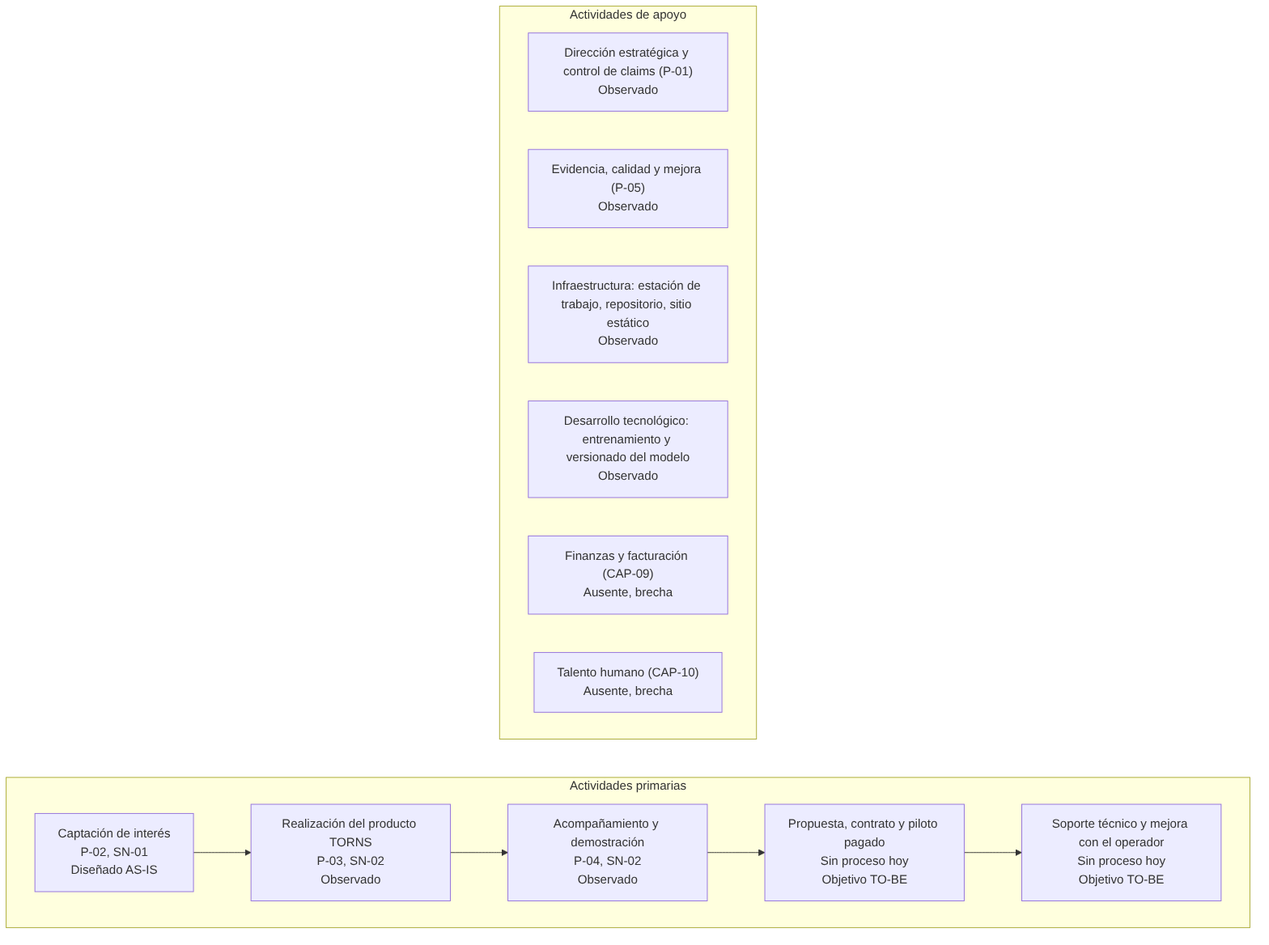
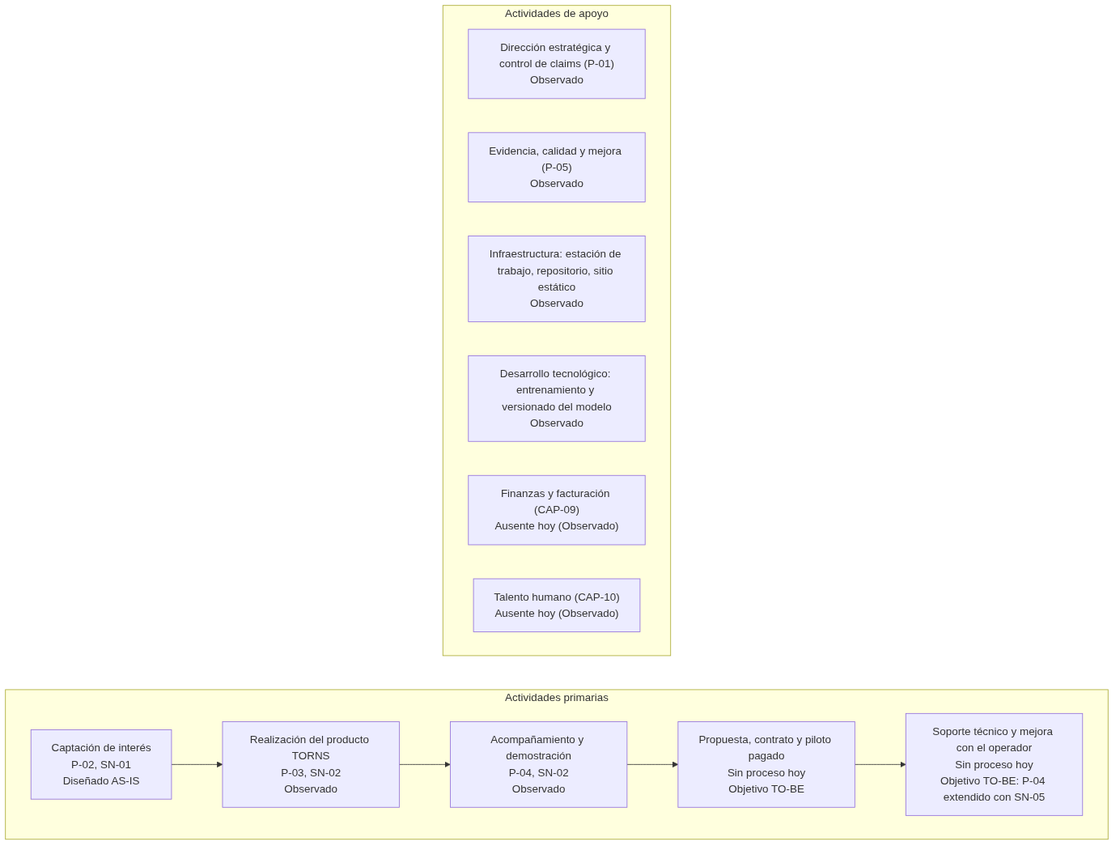
M1 Negocio: aplica hallazgos de la auditoría del PR #3 (AP-03a/AP-03b e IT-07, DF citados, C-xx en brechas, marcas, nombres de entregables, PNG revisados, SVG separados)

diff --git a/docs/ae-final-project/ondas/M1-negocio/complementos/to-be-negocio.md b/docs/ae-final-project/ondas/M1-negocio/complementos/to-be-negocio.md
@@ -1,12 +1,12 @@
 # Arquitectura de Negocio TO-BE de LIRN (borrador de apoyo para el Punto 5)
 
-Versión 0.2, 1 de noviembre de 2026 (cambios frente a 0.1 al final del documento). Borrador de apoyo; Santiago redacta el texto final. Todo lo descrito como estado futuro es Objetivo TO-BE. Los puntos de partida citan su marca AS-IS. No se fijan cifras, costos, fechas de mercado ni clientes: donde el taller pida una meta, queda NO CONFIRMADO hasta que M5 la defina.
+Versión 0.2, 1 de noviembre de 2026 (cambios frente a 0.1 al final del documento). Borrador de apoyo; Santiago redacta el texto final. Todo lo descrito como estado futuro es Objetivo TO-BE. Los puntos de partida citan su marca AS-IS. No se fijan cifras, costos, fechas de mercado ni clientes: donde el taller pida una meta, queda NO CONFIRMADO hasta que el Roadmap de Transformación la defina.
 
-Alcance según el enunciado del taller: capacidades, procesos, servicios, información y recursos tecnológicos del negocio TO-BE. Información y tecnología se describen aquí solo como requisito de negocio; el detalle es de M2 (Datos) y M4 (Tecnología).
+Alcance según el enunciado del taller: capacidades, procesos, servicios, información y recursos tecnológicos del negocio TO-BE. Información y tecnología se describen aquí solo como requisito de negocio; el detalle está en la Arquitectura de Datos (Punto 2) y en la Arquitectura Tecnológica (Punto 4).
 
-Hechos confirmados por Santiago el 1 de noviembre de 2026 (Observado por declaración del dueño): LIRN tiene un autor único, Johel Santiago Arias; los tres nombres de la página de TORNS son de presentación y no corresponden a un equipo. Los nombres técnicos tro-* se mantienen en la descripción AS-IS. Las pruebas de captura se hicieron con dos cámaras USB (usb0 y usb1). Label Studio se considera aplicación; SharePoint y el correo son herramientas de apoyo.
+Hechos confirmados por el dueño (Observado por declaración del dueño (1 de noviembre de 2026)): LIRN tiene un autor único, Johel Santiago Arias; los tres nombres de la página de TORNS son de presentación y no corresponden a un equipo. Los nombres técnicos tro-* se mantienen en la descripción AS-IS. Las pruebas de captura se hicieron con dos cámaras USB (usb0 y usb1). Label Studio se considera aplicación (AP-08 en la Arquitectura de Aplicaciones); SharePoint y el correo son herramientas de apoyo.
 
-Nombres de superficies según la tabla aprobada en B-10: AP-01 Sitio web comercial de LIRN y TORNS, AP-02 Consola de operación de estaciones, AP-03 Servicio de detección de pasajeros y plan de despacho (API), AP-04 Entrenamiento del modelo de detección. El inventario completo de aplicaciones (AP-01 a AP-13, incluidas AP-12 Google Fonts y AP-13 Google Forms) y las diferencias DF-01 a DF-10 están en el entregable de Aplicaciones (Punto 3); el modelo de datos, los flujos y el tratamiento Ley 1581 están en el entregable de Datos (Punto 2).
+Nombres de superficies aprobados por Santiago: AP-01 Sitio web comercial de LIRN y TORNS, AP-02 Consola de operación de estaciones, AP-03 Servicio de detección de pasajeros y plan de despacho, que en el TO-BE se divide en AP-03a (API de despacho) y AP-03b (servicio de inferencia), AP-04 Entrenamiento del modelo de detección. El inventario completo de aplicaciones (AP-01 a AP-13, incluidas AP-12 Google Fonts y AP-13 Google Forms) y las diferencias DF-01 a DF-10 están en el entregable de Aplicaciones (Punto 3); el modelo de datos, los flujos y el tratamiento Ley 1581 están en el entregable de Datos (Punto 2).
 
 ## 1. Visión de negocio TO-BE
 
@@ -34,7 +34,7 @@ Principios que gobiernan el TO-BE: PN-01 a PN-08 del catálogo de principios (bo
 
 ## 3. Procesos TO-BE
 
-Se conservan P-01 a P-05 y se proponen procesos nuevos solo donde una capacidad ausente lo exige (PN-08). Los identificadores P-06 a P-08 son propuesta mía para que Santiago apruebe o descarte.
+Se conservan P-01 a P-05 y se proponen procesos nuevos solo donde una capacidad ausente lo exige (PN-08). Los identificadores P-06 a P-08 son propuestos y quedan pendientes de decisión de Santiago.
 
 | Proceso | Tipo | Cambio TO-BE (Objetivo TO-BE) | Capacidades |
 |---------|------|-------------------------------|-------------|
@@ -47,7 +47,8 @@ Se conservan P-01 a P-05 y se proponen procesos nuevos solo donde una capacidad 
 | P-07 Integración con el centro de control (propuesto, pendiente de decisión de Santiago) | Misional | Acuerdo técnico y operativo de intercambio con el operador; operador humano en el circuito | CAP-07 |
 | P-08 Gestión administrativa y financiera (propuesto, pendiente de decisión de Santiago) | Apoyo | Facturación, contabilidad, contratos y vinculación de personal | CAP-09, CAP-10 |
 
-Cadena de valor TO-BE: las actividades primarias "Propuesta, contrato y piloto pagado" y "Soporte técnico y mejora con el operador", que hoy no tienen proceso, quedan cubiertas por P-06 y P-07 (ver diagrama de cadena de valor).
+<!-- reescribir Santiago -->
+Cadena de valor TO-BE: las actividades primarias "Propuesta, contrato y piloto pagado" y "Soporte técnico y mejora con el operador", que hoy no tienen proceso (Observado), quedan cubiertas por P-06 y por P-04 extendido con SN-05, respectivamente (Objetivo TO-BE). P-07 habilita CAP-07.
 
 ## 4. Servicios de negocio TO-BE
 
@@ -59,26 +60,27 @@ Cadena de valor TO-BE: las actividades primarias "Propuesta, contrato y piloto p
 | SN-04 Piloto de medición de demanda en estación (propuesto, pendiente de decisión de Santiago) | No existe (Observado) | Servicio pagado y acotado en tiempo y estaciones, con informe de resultados. Condición previa: evaluación del modelo con video de estación y acuerdo con el operador sobre fuente de video y red |
 | SN-05 Soporte y mejora del servicio (propuesto, pendiente de decisión de Santiago) | No existe (Observado) | Atención de incidencias y ajustes acordados con el operador |
 
-Sin precio, duración ni número de estaciones: NO CONFIRMADO, lo decide M5.
+Sin precio, duración ni número de estaciones: NO CONFIRMADO, lo define el Roadmap de Transformación.
 
+<!-- reescribir Santiago -->
 Nota sobre el desempeño del modelo (Observado): el recall de 0,55 es la métrica de entrenamiento de la última época, medida sobre 1.000 imágenes de validación del COCO Person Dataset de Roboflow, sin imágenes de TransMilenio ni de estaciones; el entrenamiento se realizó el 15 de noviembre de 2025 (Observado por declaración del dueño, 1 de noviembre de 2026). No anticipa el desempeño en plataforma; por eso SN-04 y P-06 exigen la evaluación previa con video de estación.
 
-## 5. Información requerida por el negocio TO-BE (insumo para M2)
+## 5. Información requerida por el negocio TO-BE (insumo para la Arquitectura de Datos)
 
 - Historial de conteos y recomendaciones por estación y fecha (CAP-05, SN-04).
 - Registro de leads con autorización de tratamiento (CAP-02, CAP-03).
 - Contratos, actas y facturación del piloto (AI-07 deja de ser brecha).
 - Evidencia de resultados del piloto con fuente y alcance (CAP-02, P-05).
-El modelo de datos, la clasificación y los flujos son del Arquitecto de Datos.
+El modelo de datos, la clasificación y los flujos se desarrollan en la Arquitectura de Datos.
 
-## 6. Recursos tecnológicos requeridos (insumo para M3 y M4)
+## 6. Recursos tecnológicos requeridos (insumo para la Arquitectura de Aplicaciones y la Arquitectura Tecnológica)
 
-- AP-03 con inferencia desacoplada y persistencia (CAP-04, CAP-05).
-- AP-02 y AP-03 con autenticación y roles de usuario (Objetivo TO-BE; DF-05), requisito para CAP-07.
+- AP-03b (servicio de inferencia continua) publica el evento IT-07 y AP-03a (API de despacho) lo persiste, de modo que el conteo no depende de que haya un cliente conectado (Objetivo TO-BE; CAP-04, CAP-05).
+- AP-02 y AP-03a con autenticación y roles de usuario (Objetivo TO-BE; DF-05 de la Arquitectura de Aplicaciones), requisito para CAP-07.
 - Entorno de piloto separado del laboratorio, con respaldo y gestión de secretos (CAP-08).
 - Gestor de leads en reemplazo de la hoja de la cuenta personal, con registro de autorización de tratamiento (CAP-02, CAP-03).
-- Registro versionado de modelos de detección, necesidad de aplicación enlazada a P-03, P-08 y CAP-10 según lo acordado en DF-08 (Objetivo TO-BE).
-- Facturación, necesidad de aplicación enlazada a P-08 y CAP-09/CAP-10 según DF-08 (Objetivo TO-BE).
+- Registro versionado de modelos de detección, necesidad de aplicación enlazada a P-03 y a CAP-04 y CAP-08 (Objetivo TO-BE; DF-08 de la Arquitectura de Aplicaciones).
+- Facturación, necesidad de aplicación enlazada a P-08 y CAP-09 (Objetivo TO-BE; DF-08 de la Arquitectura de Aplicaciones).
 La selección y el diseño son de Aplicaciones y Tecnología; aquí solo se declara la necesidad de negocio.
 
 ## 7. Organización TO-BE
@@ -86,29 +88,27 @@ La selección y el diseño son de Aplicaciones y Tecnología; aquí solo se decl
 <!-- reescribir Santiago -->
 Punto de partida: una persona, Johel Arias, autor único, cubre las cinco áreas funcionales (Diseñado AS-IS). Estado objetivo: las áreas existen como roles; un cargo nuevo solo se justifica por una capacidad ausente (CAP-07, CAP-09, CAP-10). No se fija número de personas ni fecha: NO CONFIRMADO.
 
-## 8. Brechas de negocio AS-IS a TO-BE (insumo para el Gap Analysis de M5)
+## 8. Brechas de negocio AS-IS a TO-BE (insumo para el Gap Analysis del Roadmap de Transformación)
 
 | ID | Tipo | Lo que falta hoy (Observado) | Estado que la cierra (Objetivo TO-BE) | Candidato |
 |----|------|------------------------------|---------------------------------------|-----------|
-| G-N01 | Brecha | Sin NIT ni matrícula (Observado) | S.A.S. formalizada | Formalización legal ante Cámara de Comercio y DIAN |
-| G-N02 | Brecha | Banda pública desalineada (Observado) | Comunicación alineada con el equipo vigente | Alineación de la banda pública |
-| G-N03 | Brecha | Leads en hoja de la cuenta Google personal de Santiago, sin respuesta y sin política publicada; riesgo Ley 1581/2012 (Observado) | Embudo con gestor y política Ley 1581 | Política Ley 1581 y gestor de leads |
-| G-N04 | Brecha | Conteos solo en memoria (Observado) | Historial comparable por estación | Persistencia histórica |
-| G-N05 | Brecha | Modelo evaluado solo en validación de entrenamiento sobre imágenes genéricas, recall 0,55 (Observado) | Evaluación en estación | Desacople y evaluación en estación |
-| G-N06 | Brecha | CAP-07, CAP-09 y CAP-10 ausentes (Observado) | Capacidades con proceso (P-07, P-08) | Capacidades ausentes |
-| G-N07 | Brecha | Sin proceso de contratación ni piloto (Observado). Riesgo de continuidad: no hay copias de respaldo y todo se despliega solo en el equipo de Santiago (Observado por declaración del dueño, 1 de noviembre de 2026; detalle en el entregable de Tecnología, M4) | P-06 y SN-04, con respaldo y entorno de piloto separado | Primer piloto pagado; respaldo y separación de entornos |
-
-Los candidatos se citan por nombre; sus identificadores C-01 a C-08 los asigna el Líder de Transformación en M5, por posición en el registro.
+| G-N01 | Brecha | Sin NIT ni matrícula (Observado) | S.A.S. formalizada | C-01: Formalización legal ante Cámara de Comercio y DIAN |
+| G-N02 | Brecha | Banda pública desalineada (Observado) | Comunicación alineada con el equipo vigente | C-02: Alineación de la banda pública |
+| G-N03 | Brecha | Leads en hoja de la cuenta Google personal de Santiago, sin respuesta y sin política publicada; riesgo Ley 1581/2012 (Observado) | Embudo con gestor y política Ley 1581 | C-03: Política Ley 1581 y gestor de leads |
+| G-N04 | Brecha | Conteos solo en memoria (Observado) | Historial comparable por estación | C-04: Persistencia histórica |
+| G-N05 | Brecha | Modelo evaluado solo en validación de entrenamiento sobre imágenes genéricas, recall 0,55 (Observado) | Evaluación en estación | C-05: Desacople y evaluación en estación |
+| G-N06 | Brecha | CAP-07, CAP-09 y CAP-10 ausentes (Observado) | Capacidades con proceso (P-07, P-08) | C-06: Capacidades ausentes |
+| G-N07 | Brecha | Sin proceso de contratación ni piloto (Observado). Riesgo de continuidad: no hay copias de respaldo y todo se despliega solo en el equipo de Santiago (Observado por declaración del dueño, 1 de noviembre de 2026; detalle en la Arquitectura Tecnológica) | P-06 y SN-04, con respaldo y entorno de piloto separado | C-08 y C-07: Primer piloto pagado; respaldo y separación de entornos |
 
 ## Pendientes para Santiago
-1. Aprobar o descartar P-06, P-07, P-08, SN-04 y SN-05 (propuestas mías).
+1. Aprobar o descartar P-06, P-07, P-08, SN-04 y SN-05 (propuestos).
 2. Confirmar que el piloto pagado es el único hito comercial del horizonte TO-BE.
-3. Metas, plazos y costos: NO CONFIRMADO, se definen en M5.
+3. Metas, plazos y costos: NO CONFIRMADO, se definen en el Roadmap de Transformación.
 
 ## Cambios de la versión 0.2
-- G-N07: riesgo de continuidad por ausencia de respaldo y despliegue en un solo equipo, enlazado a M4.
+- G-N07: riesgo de continuidad por ausencia de respaldo y despliegue en un solo equipo, enlazado a la Arquitectura Tecnológica.
 - SN-04 y P-06: condición de piloto y nota sobre el recall de 0,55.
 - CAP-03, SN-01 y G-N03: leads recopilados sin respuesta en cuenta personal; riesgo Ley 1581/2012; seguimiento con autorización como objetivo.
-- Sección 6: autenticación con roles en AP-02 y AP-03 (DF-05); registro versionado de modelos y facturación (DF-08).
+- Sección 6: autenticación con roles en AP-02 y AP-03a (DF-05); AP-03a y AP-03b con IT-07; registro versionado de modelos y facturación (DF-08).
 - P-06 a P-08, SN-04 y SN-05 marcados como propuestos pendientes de decisión de Santiago.
 - Hechos confirmados: autor único, nombres tro-* en AS-IS, cámaras usb0 y usb1, clasificación de Label Studio, SharePoint y correo.

diff --git a/docs/ae-final-project/ondas/M1-negocio/complementos/catalogo-principios.md b/docs/ae-final-project/ondas/M1-negocio/complementos/catalogo-principios.md
@@ -2,12 +2,14 @@
 
 Formato TOGAF: nombre, enunciado, justificación, implicaciones. Cada principio se ancla a un hecho existente en la fuente de verdad. Los enunciados son propuestas de diseño (Objetivo TO-BE como guía de decisión); los hechos citados como ancla llevan su marca. Santiago decide cuáles adopta y los redacta con voz propia.
 
+<!-- reescribir Santiago -->
+<!-- reescribir Santiago: enunciados PN-01 a PN-08 -->
 | ID | Nombre | Enunciado | Justificación (ancla) | Implicaciones | Marca del ancla |
 |----|--------|-----------|------------------------|---------------|-----------------|
 | PN-01 | Una firma, un producto | LIRN vende y TORNS opera. No se agrega un segundo producto sin revisión de dirección. | LIRN es la firma y TORNS es el único producto; el proceso P-01 devuelve al alcance si se propone un segundo producto. | Toda iniciativa del portafolio se evalúa contra el alcance de TORNS. Ninguna capacidad nueva se justifica por un producto distinto. | Observado |
 | PN-02 | Afirmar solo lo que está evidenciado | Ningún mensaje público ni entregable afirma clientes, contratos, alianzas, piloto firmado ni impacto no medido. | Lista de claims prohibidos; servicio SN-03; indicador de claims inventados en P-05. | Todo indicador futuro se presenta como Objetivo TO-BE. Las metas sin dato se escriben NO CONFIRMADO. | Observado |
 | PN-03 | Demanda medida antes que demanda supuesta | La oferta recomendada parte de lo que ocurre en la estación ahora y no solo del horario. | Misión y visión aprobadas; mecanismo de conteo y recomendación. | Las capacidades CAP-04 y CAP-05 son el núcleo. Un cambio que degrade la medición exige evaluarla antes. | Observado |
-| PN-04 | La decisión de despacho es del operador | TORNS recomienda; la decisión y la operación siguen en el centro de control. | El producto recomienda oferta al centro de control y no se integra hoy con control real. La formulación como principio es propuesta mía. | Cualquier integración en vivo (CAP-07) se diseña con operador humano en el circuito y autenticación. | Observado (hecho) / propuesta (principio) |
+| PN-04 | La decisión de despacho es del operador | TORNS recomienda; la decisión y la operación siguen en el centro de control. | El producto recomienda oferta al centro de control y no se integra hoy con control real. | Cualquier integración en vivo (CAP-07) se diseña con operador humano en el circuito y autenticación. | Objetivo TO-BE |
 | PN-05 | Privacidad desde el diseño | Se recolecta el mínimo de datos personales y se trata bajo la Ley 1581. | El modelo detecta la clase persona sin reconocimiento facial ni biometría; los leads son datos personales con LIRN como responsable. | Política y aviso de tratamiento en el canal de contacto; clasificación de activos; retención definida. | Observado / Diseñado AS-IS |
 | PN-06 | Evidencia trazable | Toda cifra citada tiene fuente, fecha y alcance declarados. | Encuesta del 17 de agosto de 2026 con n=20 y entrevista SITP por rol; no es resultado de un operador. | Las citas llevan leyenda de investigación del equipo. No se extrapola una muestra de 20. | Observado |
 | PN-07 | Regla explicable sobre caja negra | Donde una regla simple resuelve la decisión, se usa la regla y se declara como regla. | El despacho aplica ⌈N/C⌉ con capacidades 5, 10 y 15 y se documenta como regla, no como IA. | Cambiar a un optimizador requiere justificación y evaluación; no se afirma optimización de red. | Observado |
@@ -15,5 +17,5 @@ Formato TOGAF: nombre, enunciado, justificación, implicaciones. Cada principio 
 
 ## Pendientes para Santiago
 1. Confirmar cuáles de los ocho principios adopta y si desea añadir uno de cumplimiento regulatorio general.
-2. PN-04 y PN-08 son propuestas mías; el repositorio no las enuncia como principios.
-3. El taller no exige un catálogo de principios por nombre; es insumo de M5. NO CONFIRMADO si el docente lo pide en el informe.
+2. PN-04 y PN-08 son principios propuestos; el repositorio no las enuncia como principios.
+3. El taller no exige un catálogo de principios por nombre; es insumo del Roadmap de Transformación. NO CONFIRMADO si el docente lo pide en el informe.

diff --git a/docs/ae-final-project/ondas/M1-negocio/complementos/cadena-de-valor.md b/docs/ae-final-project/ondas/M1-negocio/complementos/cadena-de-valor.md
@@ -1,6 +1,6 @@
 # Cadena de valor de LIRN (borrador de apoyo, AS-IS con proyección TO-BE)
 
-Actividades primarias tomadas de los tres procesos misionales (P-02, P-03, P-04) y de apoyo de P-01, P-05 y de la infraestructura observada. Lo que no existe hoy se marca como brecha.
+Actividades primarias tomadas de los tres procesos misionales (P-02, P-03, P-04) y de apoyo de P-01, P-05 y de la infraestructura observada. Lo que no existe hoy se marca Observado y se describe su ausencia.
 
 ```mermaid
 flowchart TB
@@ -10,8 +10,8 @@ flowchart TB
         A2["Evidencia, calidad y mejora (P-05)<br/>Observado"]
         A3["Infraestructura: estación de trabajo, repositorio, sitio estático<br/>Observado"]
         A4["Desarrollo tecnológico: entrenamiento y versionado del modelo<br/>Observado"]
-        A5["Finanzas y facturación (CAP-09)<br/>Ausente, brecha"]
-        A6["Talento humano (CAP-10)<br/>Ausente, brecha"]
+        A5["Finanzas y facturación (CAP-09)<br/>Ausente hoy (Observado)"]
+        A6["Talento humano (CAP-10)<br/>Ausente hoy (Observado)"]
     end
     subgraph PRIM["Actividades primarias"]
         direction LR
@@ -19,7 +19,7 @@ flowchart TB
         B2["Realización del producto TORNS<br/>P-03, SN-02<br/>Observado"]
         B3["Acompañamiento y demostración<br/>P-04, SN-02<br/>Observado"]
         B4["Propuesta, contrato y piloto pagado<br/>Sin proceso hoy<br/>Objetivo TO-BE"]
-        B5["Soporte técnico y mejora con el operador<br/>Sin proceso hoy<br/>Objetivo TO-BE"]
+        B5["Soporte técnico y mejora con el operador<br/>Sin proceso hoy<br/>Objetivo TO-BE: P-04 extendido con SN-05"]
         B1 --> B2 --> B3 --> B4 --> B5
     end
     APOYO ~~~ PRIM
@@ -28,11 +28,12 @@ flowchart TB
 Disposición: dos bloques apilados, apoyo arriba y primarias abajo. El resultado final (valor entregado, Objetivo TO-BE) se describe en la lectura, no como nodo, para reducir el ancho de la imagen.
 
 ## Lectura
+<!-- reescribir Santiago -->
 - Resultado declarado: oferta ajustada a la demanda medida en estación (Objetivo TO-BE, no entregado hoy).
 - B1 a B3 existen como proceso documentado (Observado o Diseñado AS-IS). B4 y B5 no existen: LIRN no tiene clientes ni pilotos (Observado) y se proyectan solo como TO-BE.
 - El valor que se declara como resultado final es objetivo. No se afirma como entregado hoy.
-- A5 y A6 son brechas confirmadas por el mapa de capacidades.
+- A5 y A6 no existen hoy, según el mapa de capacidades (Observado).
 - No hay cifras ni costos por actividad. Si el docente exige análisis de margen, queda NO CONFIRMADO.
 
 ## Pendiente para Santiago
-Decidir si presentar la cadena como modelo de Porter (actividades primarias y de apoyo, como arriba) o como cadena de valor de los servicios SN-01 a SN-03. Propongo la primera porque el mapa de procesos ya tiene tipo estratégico, misional y de apoyo.
+Decidir si presentar la cadena como modelo de Porter (actividades primarias y de apoyo, como arriba) o como cadena de valor de los servicios SN-01 a SN-03. Se recomienda la primera porque el mapa de procesos ya tiene tipo estratégico, misional y de apoyo.

diff --git a/docs/ae-final-project/ondas/M1-negocio/complementos/hechos-decisiones-punto1.md b/docs/ae-final-project/ondas/M1-negocio/complementos/hechos-decisiones-punto1.md
@@ -7,7 +7,7 @@ Para que Santiago reescriba con voz propia. No copiar frases de aquí al informe
 |-----|-------|-------|--------|
 | H-01 | LIRN es la firma y TORNS es el único producto | Observado | Registro de empresa; archivo de identidad del repositorio |
 | H-02 | Razón social de trabajo LIRN, proyectada LIRN S.A.S., domicilio Bogotá | Diseñado AS-IS | Registro de empresa, apartado de identidad legal |
-| H-03 | NIT y matrícula mercantil sin formalizar | Brecha (NO CONFIRMADO número) | Registro de empresa |
+| H-03 | Brecha: no existen NIT ni matrícula mercantil | Observado | Registro de empresa |
 | H-04 | Equipo actual: Johel Arias | Observado | Registro de empresa |
 | H-05 | Vista funcional de cinco áreas, todas a cargo del fundador | Diseñado AS-IS | Organigrama y stakeholders |
 | H-06 | Cero clientes firmados; Transmilenio es caso de estudio | Observado | Registro de empresa |
@@ -15,7 +15,7 @@ Para que Santiago reescriba con voz propia. No copiar frases de aquí al informe
 | H-08 | Misión y visión aprobadas | Observado | Organización y estrategia |
 | H-09 | Cinco objetivos estratégicos OE-01 a OE-05 | Diseñado AS-IS | Organización y estrategia |
 | H-10 | Ocho grupos de partes interesadas SH-01 a SH-08 | Observado / Diseñado AS-IS | Organigrama y stakeholders |
-| H-11 | Siete activos de información AI-01 a AI-07; AI-07 no existe | Observado / brecha | Activos, procesos y capacidades |
+| H-11 | Siete activos de información AI-01 a AI-07; AI-07 (contratos y facturación) no existe hoy | Observado | Activos, procesos y capacidades |
 | H-12 | Cinco procesos P-01 a P-05, mapa aprobado el 13 de septiembre de 2026 | Observado | Activos, procesos y capacidades |
 | H-13 | Diez capacidades CAP-01 a CAP-10; CAP-07, CAP-09 y CAP-10 ausentes | Observado | Activos, procesos y capacidades |
 | H-14 | Tres servicios SN-01 a SN-03 | Observado / Diseñado AS-IS | Arquitectura de negocio AS-IS |
@@ -26,7 +26,7 @@ Para que Santiago reescriba con voz propia. No copiar frases de aquí al informe
 | N.º | Decisión | Por qué importa | Referencia |
 |-----|----------|-----------------|------------|
 | D-01 | Qué hacer con la banda de tres nombres de la landing | Define el texto AS-IS y el candidato C-02 | Ajuste B-02 |
-| D-02 | Nombres funcionales de las cuatro superficies | Afecta M2, M3, M4 y M5 | Ajuste B-10 |
+| D-02 | Nombres funcionales de las cuatro superficies | Afecta la Arquitectura de Datos, de Aplicaciones, Tecnológica y el Roadmap de Transformación | Aprobado por Santiago |
 | D-03 | Datos de portada: autor, fecha, grupo | Bloquea la portada | Ajuste B-03 |
 | D-04 | Si la expansión del nombre TORNS es oficial | Riesgo de claim | Cotejo B-05, hallazgo 2 |
 | D-05 | Qué imagen BPMN manda cuando difiere de su guía (P-02, P-04, P-05) | Coherencia del Punto 1 | Cotejo B-06 |

diff --git a/docs/ae-final-project/ondas/M1-negocio/complementos/matriz-trazabilidad-oe.md b/docs/ae-final-project/ondas/M1-negocio/complementos/matriz-trazabilidad-oe.md
@@ -1,13 +1,13 @@
-# B-09. Matriz de trazabilidad OE-01 a OE-05 contra procesos, capacidades y servicios
+# Matriz de trazabilidad OE-01 a OE-05 contra procesos, capacidades y servicios
 
-Borrador de apoyo. Fuente: tabla de objetivos estratégicos (objetivo a proceso, Diseñado AS-IS), mapa de capacidades (capacidad a proceso) y catálogo de servicios SN-01 a SN-03 de M1. Las capacidades y servicios por objetivo se derivan pasando por el proceso. Esa derivación es mía y se marca "derivado, confirmar".
+Borrador de apoyo. Fuente: tabla de objetivos estratégicos (objetivo a proceso, Diseñado AS-IS), mapa de capacidades (capacidad a proceso) y catálogo de servicios SN-01 a SN-03 de la Arquitectura de Negocio. Las capacidades y servicios por objetivo se derivan pasando por el proceso. Nota: las columnas de capacidades y servicios se obtienen pasando por el proceso y requieren confirmación de Santiago; no constituyen marca.
 
-| Objetivo | Procesos (fuente M1) | Capacidades presentes (derivado) | Capacidades en brecha (derivado) | Servicios (derivado) | Marca |
+| Objetivo | Procesos (fuente M1) | Capacidades presentes | Capacidades en brecha | Servicios | Marca |
 |----------|----------------------|----------------------------------|----------------------------------|----------------------|-------|
-| OE-01 Producto demostrable y controlado | P-03, P-04 | CAP-04, CAP-05, CAP-06, CAP-08 parcial | CAP-07 | SN-02 | Diseñado AS-IS (objetivo) / derivado |
-| OE-02 Canal comercial honesto B2B y B2G | P-02 | CAP-03 | Sin CRM ni facturación (CAP-09) | SN-01 | Diseñado AS-IS / derivado |
-| OE-03 Proteger datos personales y evidencia | P-01, P-05 | CAP-01, CAP-02 | Política de tratamiento registrada (parte de CAP-02 en TO-BE) | SN-03 | Diseñado AS-IS / derivado |
-| OE-04 Cerrar brecha entre demanda medida y oferta recomendada | P-01, P-03 | CAP-01, CAP-04, CAP-05 | CAP-07 | SN-02 | Diseñado AS-IS / derivado |
+| OE-01 Producto demostrable y controlado | P-03, P-04 | CAP-04, CAP-05, CAP-06, CAP-08 parcial | CAP-07 | SN-02 | Diseñado AS-IS (objetivo) |
+| OE-02 Canal comercial honesto B2B y B2G | P-02 | CAP-03 | Sin CRM ni facturación (CAP-09) | SN-01 | Diseñado AS-IS |
+| OE-03 Proteger datos personales y evidencia | P-01, P-05 | CAP-01, CAP-02 | Política de tratamiento registrada (parte de CAP-02 en TO-BE) | SN-03 | Diseñado AS-IS |
+| OE-04 Cerrar brecha entre demanda medida y oferta recomendada | P-01, P-03 | CAP-01, CAP-04, CAP-05 | CAP-07 | SN-02 | Diseñado AS-IS |
 | OE-05 Preparar primer piloto pagado (TO-BE) | P-01 a P-05 | CAP-01 a CAP-06 | CAP-07, CAP-09, CAP-10, inventario físico de CAP-08 | SN-01, SN-02, SN-03 | Objetivo TO-BE |
 
 ## Hallazgos de trazabilidad

diff --git a/docs/ae-final-project/ondas/M1-negocio/complementos/matriz-capacidad-proceso-servicio.md b/docs/ae-final-project/ondas/M1-negocio/complementos/matriz-capacidad-proceso-servicio.md
@@ -1,6 +1,6 @@
 # Matriz capacidad x proceso x servicio (AS-IS, borrador de apoyo)
 
-Leyenda: P = proceso principal que ejerce la capacidad (fuente: mapa de capacidades de M1, Observado o Diseñado AS-IS). A = apoyo propuesto por mí a partir de las entradas y salidas de las fichas (derivado, confirmar). Vacío = sin relación documentada. "Ausente" = la capacidad no existe hoy (Observado).
+Leyenda: P = proceso principal que ejerce la capacidad (fuente: mapa de capacidades de la Arquitectura de Negocio, Observado o Diseñado AS-IS). A = apoyo propuesto a partir de las entradas y salidas de las fichas (pendiente de confirmación de Santiago). Vacío = sin relación documentada. "Ausente" = la capacidad no existe hoy (Observado).
 
 | Capacidad | Estado AS-IS | P-01 | P-02 | P-03 | P-04 | P-05 | Servicio de negocio | Marca |
 |-----------|--------------|------|------|------|------|------|---------------------|-------|
@@ -11,12 +11,12 @@ Leyenda: P = proceso principal que ejerce la capacidad (fuente: mapa de capacida
 | CAP-05 Cálculo y recomendación determinista de despacho | Presente (prototipo) |  |  | P | A |  | SN-02 | Observado |
 | CAP-06 Atención al cliente / Acompañamiento de demostración | Presente (acotada) |  | A |  | P |  | SN-02 | Observado / Diseñado AS-IS |
 | CAP-07 Integración y despacho en vivo con el centro de control | Ausente |  |  |  |  |  | Ninguno | Observado |
-| CAP-08 Gestión de inventarios (catálogo digital vs. hardware físico) | Parcial |  |  | P |  |  | NO CONFIRMADO | Observado / brecha |
+| CAP-08 Gestión de inventarios (catálogo digital vs. hardware físico) | Parcial |  |  | P |  |  | NO CONFIRMADO | Observado (catálogo digital existente; no existe inventario de hardware físico) |
 | CAP-09 Gestión financiera, contable y facturación | Ausente |  |  |  |  |  | Ninguno | Observado |
 | CAP-10 Gestión de talento humano | Ausente |  |  |  |  |  | Ninguno | Observado |
 
 ## Lectura
-- Las letras P salen de la columna "proceso asociado" del mapa de capacidades de M1. Las letras A son propuesta mía y Santiago debe aprobarlas o borrarlas.
+- Las letras P salen de la columna "proceso asociado" del mapa de capacidades. Las letras A son propuestas y Santiago debe aprobarlas o borrarlas.
 - Tres capacidades ausentes (CAP-07, CAP-09, CAP-10) no tienen proceso ni servicio. Alimentan C-06.
 - Los dueños funcionales de cada proceso (Dirección, Comercial, Producto, Operación, Calidad) hoy son una sola persona, Johel Arias (Diseñado AS-IS). No se afirma como hoy que existan áreas separadas.
 

diff --git a/docs/ae-final-project/ondas/M1-negocio/complementos/00-resumen.md b/docs/ae-final-project/ondas/M1-negocio/complementos/00-resumen.md
@@ -1,19 +1,18 @@
-# Resumen de entrega M1 (Arquitecto de Negocio), 28 de octubre de 2026
+# Resumen de entrega de la Arquitectura de Negocio, versión del 1 de noviembre de 2026
 
-Todos los archivos son borradores de apoyo. Santiago redacta el texto final. No se modificó el repositorio ni se hizo push.
+Todos los archivos son borradores de apoyo. Santiago redacta el texto final.
 
-| Archivo | Cubre | Estado |
-|---------|-------|--------|
-| lista-ajustes-m1.md | B-01, B-02, B-03, B-10 | B-01, B-02 y B-03 cerrados por decisión de Santiago (28 oct); B-10 aprobado, tabla AP-01 a AP-04 vigente |
-| bibliografia.md | B-04 | Cerrado en borrador; falta edición de TOGAF y URL de encuesta |
+| Archivo | Ajuste | Estado |
+|---------|--------|--------|
+| to-be-negocio.md | TO-BE de negocio v0.2 (insumo del Punto 5) | Borrador v0.2, 1 nov 2026 |
+| lista-ajustes-m1.md | B-01 a B-04, B-06, B-08, B-10 | B-06 cerrado (la imagen prevalece); B-08 cerrado en borrador |
+| bibliografia.md | B-04 | Cerrado en borrador; Decreto 1377 de 2013, compilado en el Decreto 1074 de 2015 |
 | b05-cotejo-consolidado.md | B-05 | Cerrado; lectura frase por frase pendiente |
-| b06-cotejo-bpmn-y-diagramas.md y carpeta imagenes/mmd | B-06 | Cotejo hecho; exportación PNG pendiente (bloqueada en mi entorno) |
+| b06-cotejo-bpmn-y-diagramas.md e imagenes (mmd, png, svg) | B-06 | Cerrado; diez PNG revisados |
+| ajustes-guias-bpmn-p02-p04-p05.md | B-06 | Texto de ajuste de las guías; integración pendiente de Santiago |
 | hechos-decisiones-punto1.md | B-07 | Cerrado |
-| ids-candidatos-c01-c08.md | B-08 | Cerrado |
+| ids-candidatos-c01-c08.md | B-08 | Cerrado en borrador |
 | matriz-trazabilidad-oe.md | B-09 | Cerrado |
-| catalogo-principios.md | Brecha M1 | Borrador |
-| cadena-de-valor.md | Brecha M1 | Borrador con diagrama Mermaid |
-| matriz-capacidad-proceso-servicio.md | Brecha M1 | Borrador |
-| to-be-negocio.md | Punto 5 | Borrador v0.1 (1 nov 2026) |
+| catalogo-principios.md, cadena-de-valor.md, matriz-capacidad-proceso-servicio.md | Complementos del Punto 1 | Borrador |
 
-Contradicciones con el registro: ninguna. Tensiones señaladas: nombres tro-* bloqueados frente a retirar residuos (B-02, B-10), expansión de TORNS no confirmada, y "microempresa" frente al criterio de ingresos del Decreto 957.
+Zonas marcadas para reescritura de Santiago: visión TO-BE, organización TO-BE, nota del recall, párrafo de cadena de valor TO-BE, enunciados de principios y lectura de la cadena de valor.

diff --git a/docs/ae-final-project/ondas/M1-negocio/complementos/lista-ajustes-m1.md b/docs/ae-final-project/ondas/M1-negocio/complementos/lista-ajustes-m1.md
@@ -9,7 +9,7 @@ Borrador de apoyo para Santiago. No es texto final del informe. Marcas: Observad
 | B-03 | Portada con autor, fecha y grupo | Cerrado (decisión de Santiago, 28 oct 2026) | Autor único, ya definido en la documentación del proyecto. No se pide más. | Observado |
 | B-04 | Bibliografía con URL | Cerrado en borrador | Ver archivo de bibliografía. Dos URL oficiales de leyes del Senado dieron error de servidor en la verificación; se usó el Gestor Normativo de la Función Pública. | Observado |
 | B-10 | Nombre de las superficies sin identidad TRO | Cerrado (aprobado por Santiago, 28 oct 2026) | Se aplica la tabla vigente de abajo, que reemplaza la propuesta inicial. | Objetivo TO-BE |
-| B-06 | Diagramas Mermaid y cotejo de las cinco imágenes BPMN | Cerrado (decisión de Santiago, 1 nov 2026: la imagen prevalece) | PNG revisados (02-1, 02-2, 03-1, 04-1). Los desajustes de P-02, P-04 y P-05 se resuelven a favor de la imagen; el ajuste de las guías queda redactado y su integración está pendiente del Líder o de Santiago (fuera de la carpeta M1). | Observado |
+| B-06 | Diagramas Mermaid y cotejo de las cinco imágenes BPMN | Cerrado (decisión de Santiago, 1 nov 2026: la imagen prevalece) | Revisados visualmente los diez PNG (02-1, 02-2, 03-1, 03-2, 04-1, cadena de valor, cons-1 a cons-4); cons-5 era copia idéntica de 04-1 y se eliminó; los SVG pasan a imagenes/svg. Los desajustes de P-02, P-04 y P-05 se resuelven a favor de la imagen; el ajuste de las guías queda redactado y su integración está pendiente del Líder o de Santiago (fuera de la carpeta M1). | Observado |
 | B-08 | IDs C-01 a C-08 | Cerrado en borrador | Añadida la aclaración DF-07 sobre el recall de 0,55. | Objetivo TO-BE |
 
 ## B-02. Nota histórica, ya cerrado por Santiago: banda pública de tres nombres y residuos tro-*
@@ -24,7 +24,6 @@ Decisión propuesta para que Santiago confirme o corrija (no la tomo yo):
 2. La landing se alinea como proyecto del portafolio (candidato C-02), no como hecho cumplido.
 3. Los nombres tro-* se conservan únicamente como nombres técnicos de repositorio en el inventario de aplicaciones de M3, y en el cuerpo del informe se usan los nombres funcionales de B-10.
 
-Pregunta abierta para Santiago: ¿la banda de tres nombres se retira de la landing antes de la entrega, o se deja y se documenta como brecha? Responder esto cambia el texto de AS-IS y el portafolio de M5.
 
 ## B-10. Nombres de superficies en el informe
 

diff --git a/docs/ae-final-project/ondas/M1-negocio/complementos/ids-candidatos-c01-c08.md b/docs/ae-final-project/ondas/M1-negocio/complementos/ids-candidatos-c01-c08.md
@@ -1,6 +1,6 @@
-# B-08. Identificadores de los candidatos de la sección de brechas y proyectos del registro
+# Identificadores de los candidatos de la sección de brechas y proyectos del registro
 
-Se asignan en el orden en que aparecen en el registro. El texto es el del registro, abreviado sin cambiar su sentido. Son candidatos, no portafolio cerrado: M5 decide. Marca: Objetivo TO-BE (candidatos de proyecto).
+Se asignan en el orden en que aparecen en el registro. El texto es el del registro, abreviado sin cambiar su sentido. Son candidatos, no portafolio cerrado: el Roadmap de Transformación decide. Marca: Objetivo TO-BE (candidatos de proyecto).
 
 | ID | Candidato | Capacidad o activo relacionado | Objetivo estratégico relacionado |
 |----|-----------|--------------------------------|----------------------------------|
@@ -14,6 +14,6 @@ Se asignan en el orden en que aparecen en el registro. El texto es el del regist
 | C-08 | Primer piloto pagado con un operador B2B o entidad B2G (solo horizonte TO-BE) | Todas | OE-05 |
 
 Notas:
-- Las columnas de capacidad y objetivo son una propuesta mía derivada de las tablas de M1 y deben confirmarse; el registro no las asigna.
-- C-06 agrupa tres brechas en un solo candidato porque así figura en el registro. M5 puede separarlo en C-06a, C-06b y C-06c sin cambiar el identificador base.
-- Aclaración DF-07 (Observado): el recall de 0,55 citado en C-05 es la métrica de entrenamiento de la última época sobre 1.000 imágenes del COCO Person Dataset de Roboflow, sin imágenes de TransMilenio ni de estaciones; no anticipa el desempeño en plataforma.
+- Las columnas de capacidad y objetivo son propuestas a partir de las tablas de la Arquitectura de Negocio y deben confirmarse; el registro no las asigna.
+- C-06 agrupa tres brechas en un solo candidato porque así figura en el registro. El Roadmap de Transformación puede separarlo en C-06a, C-06b y C-06c sin cambiar el identificador base.
+- Aclaración (Observado; DF-07 de la Arquitectura de Aplicaciones): el recall de 0,55 citado en C-05 es la métrica de entrenamiento de la última época sobre 1.000 imágenes del COCO Person Dataset de Roboflow, sin imágenes de TransMilenio ni de estaciones; no anticipa el desempeño en plataforma.

diff --git a/docs/ae-final-project/ondas/M1-negocio/complementos/b06-cotejo-bpmn-y-diagramas.md b/docs/ae-final-project/ondas/M1-negocio/complementos/b06-cotejo-bpmn-y-diagramas.md
@@ -1,8 +1,8 @@
 # B-06. Diagramas Mermaid y cotejo de las cinco imágenes BPMN
 
 ## Mermaid (organigrama, capacidades, procesos, AS-IS)
-- Extraje los bloques Mermaid de los cuatro apartados y del consolidado como archivos .mmd en la carpeta imagenes/mmd (10 archivos): organigrama jerárquico (02-1), vista funcional (02-2), interacción de procesos (03-1), mapa de capacidades (03-2), línea base AS-IS (04-1) y sus copias en el consolidado (cons-1 a cons-5).
-- Exportación a PNG y SVG: realizada (carpeta imagenes/png). Revisé visualmente 02-1, 02-2, 03-1 y 04-1 contra sus .mmd y renderizan completos y legibles. Estado: cerrado.
+- Extraje los bloques Mermaid de los cuatro apartados y del consolidado como archivos .mmd en la carpeta imagenes/mmd (10 archivos): organigrama jerárquico (02-1), vista funcional (02-2), interacción de procesos (03-1), mapa de capacidades (03-2), línea base AS-IS (04-1) y sus copias en el consolidado (cons-1 a cons-4; cons-5 era copia idéntica de 04-1 y se eliminó).
+- Exportación: PNG en imagenes/png y SVG en imagenes/svg. Revisé visualmente los diez PNG; renderizan completos y sin títulos cortados. La cadena de valor se volvió a exportar con el ajuste de B5. Estado: cerrado.
 
 ## Cotejo de las cinco imágenes BPMN contra fichas y guías
 Revisé visualmente cada imagen y la comparé con su guía BPMN. Marca de todo lo siguiente: Observado (imagen y guía publicadas).

diff --git a/docs/ae-final-project/ondas/M1-negocio/complementos/bibliografia.md b/docs/ae-final-project/ondas/M1-negocio/complementos/bibliografia.md
@@ -1,4 +1,4 @@
-# Bibliografía de apoyo (B-04)
+# Bibliografía de apoyo
 
 Borrador de apoyo. Formato APA 7 simplificado. Las URL se verificaron el 28 de octubre de 2026 salvo donde se indica. No incluye rutas de archivos .md.
 
@@ -22,6 +22,6 @@ Borrador de apoyo. Formato APA 7 simplificado. Las URL se verificaron el 28 de o
 
 ## Observaciones para Santiago
 
-1. Según el Gestor Normativo, el Decreto 1377 de 2013 figura como derogado parcialmente por el Decreto 1081 de 2015, y ambos reglamentan la Ley 1581. Conviene verificar con el docente si se cita el decreto de 2013, el compilado, o ambos.
+1. En todo el informe se cita como Decreto 1377 de 2013, compilado en el Decreto 1074 de 2015, igual que en la Arquitectura de Datos.
 2. El Decreto 957 de 2019 clasifica el tamaño empresarial por ingresos anuales y sector, no por número de personas. El registro bloquea "microempresa unipersonal" con la marca Observado (equipo) y Diseñado AS-IS (marco). Como los ingresos de LIRN no están confirmados, la clasificación como micro es una hipótesis de diseño. No se modifica el hecho bloqueado; se sugiere redactarlo así.
 3. Las URL del Senado de la República para las leyes 1258 y 1581 respondieron con error de servidor en la verificación. Se prefirió el Gestor Normativo.

diff --git a/docs/ae-final-project/ondas/M1-negocio/complementos/ajustes-guias-bpmn-p02-p04-p05.md b/docs/ae-final-project/ondas/M1-negocio/complementos/ajustes-guias-bpmn-p02-p04-p05.md
@@ -1,6 +1,6 @@
 # Ajustes propuestos a las guías BPMN de P-02, P-04 y P-05
 
-Decisión de Santiago (1 de noviembre de 2026): la imagen BPMN publicada prevalece sobre la guía. Las guías viven fuera de la carpeta de la onda M1, por lo que aquí se deja el texto de ajuste para que el Líder de Transformación o Santiago lo integren. Marca de todo lo siguiente: Observado (imagen publicada).
+Decisión de Santiago (1 de noviembre de 2026): la imagen BPMN publicada prevalece sobre la guía. Las guías viven fuera de la carpeta de la onda M1, por lo que aquí se deja el texto de ajuste para que Santiago lo integre. Marca de todo lo siguiente: Observado (imagen publicada).
 
 ## P-02 Relación comercial y partes interesadas
 - Carriles: Persona interesada, Comercial, Canal de contacto (sin cambio).
